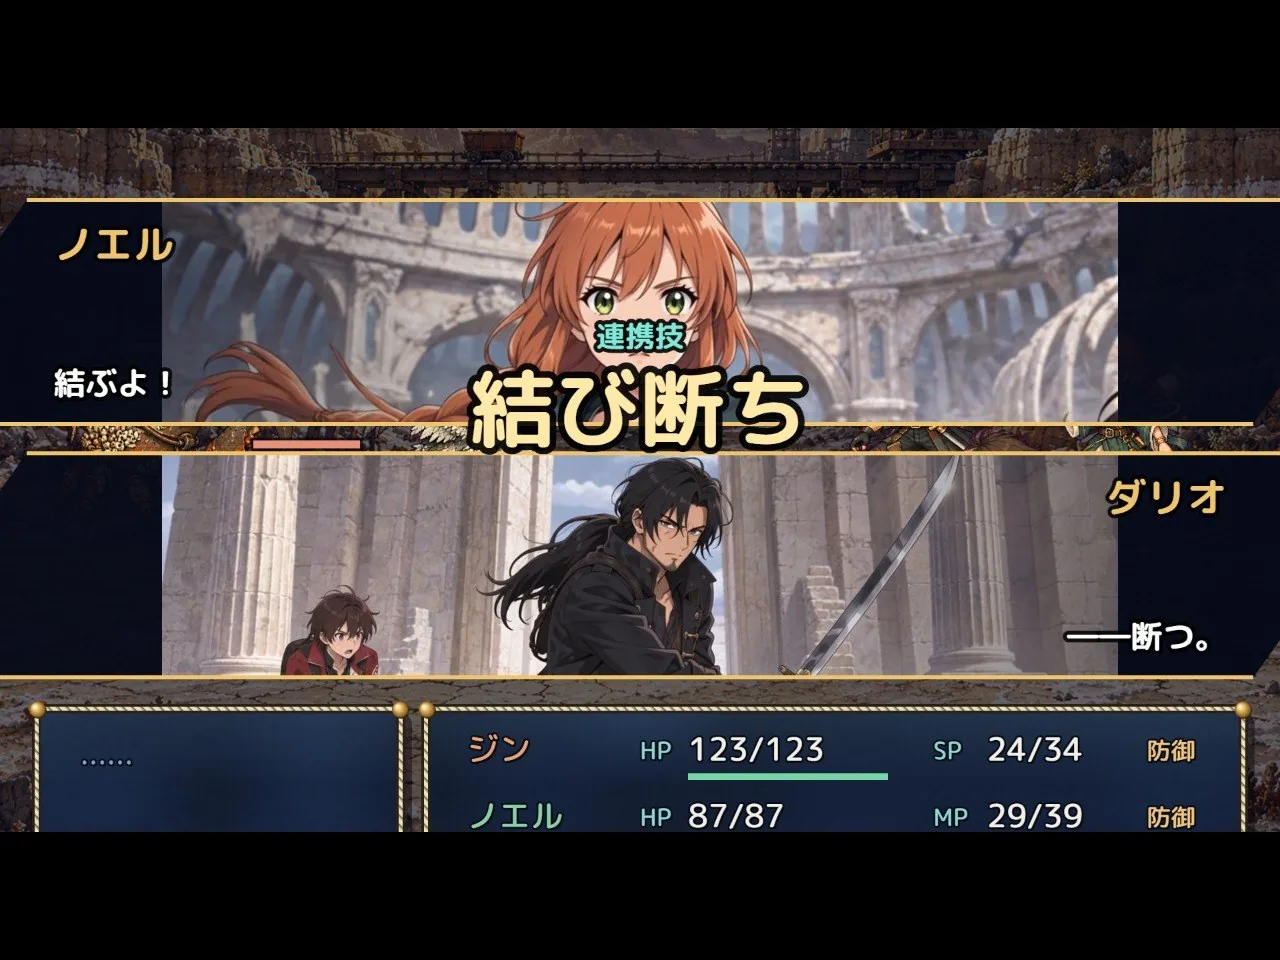
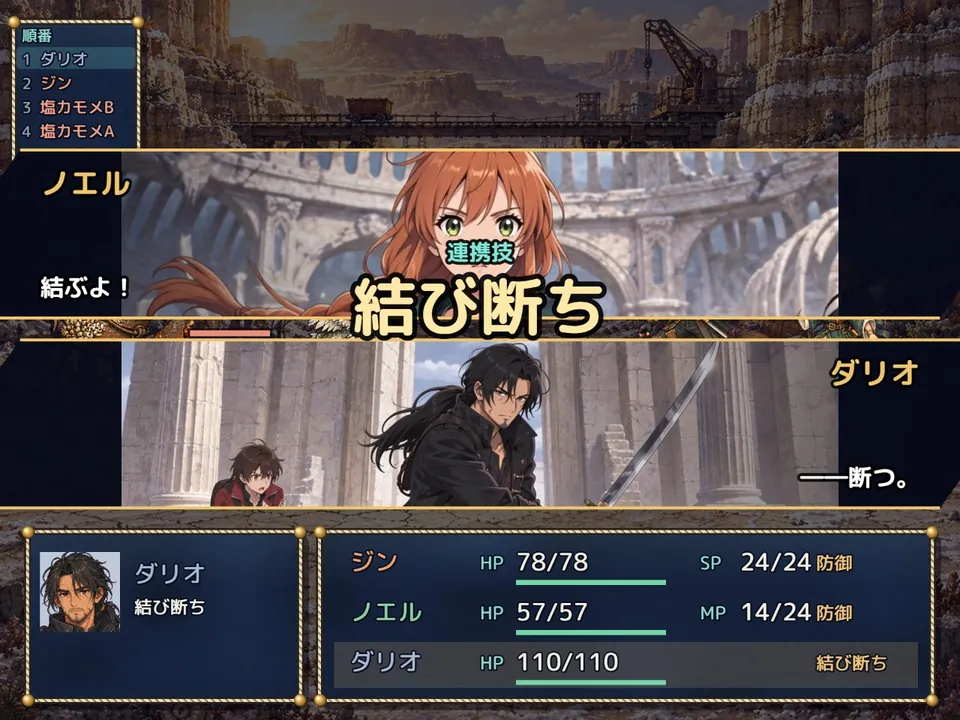
結び断ちのゲーム画面2枚を撮り直し：技の演出の黒い帯で上と仲間の欄が隠れていたので、帯を外して画面全体を写す

diff --git a/index.html b/index.html
@@ -488,11 +488,11 @@ section{padding:96px 0}
           <div class="body"><h3>ターン制のコマンドバトル</h3><p>撃つ・たたかう・技・道具・防御。ジン、ノエル、ダリオの3人に命令を出して戦う、じっくり考えるターン制の戦闘。</p></div>
         </div>
         <div class="feat fx">
-          <img width="1280" height="960" src="assets/img/game_musubi.webp" srcset="assets/img/game_musubi_640.webp 640w, assets/img/game_musubi.webp 1280w" sizes="(max-width:900px) 100vw, 50vw" alt="ノエルとダリオのカットインと技の名前" loading="lazy">
+          <img width="960" height="720" src="assets/img/game_musubi.webp" srcset="assets/img/game_musubi_640.webp 640w, assets/img/game_musubi.webp 960w" sizes="(max-width:900px) 100vw, 50vw" alt="ノエルとダリオのカットインと技の名前" loading="lazy">
           <div class="body"><h3>連携技「結び断ち」</h3><p>ノエルの糸で敵を結び、ダリオが一体ずつ断ち切る。仲間の力をつなげる連携技が、戦況をひっくり返す。</p></div>
         </div>
         <div class="feat fx">
-          <img width="1280" height="960" src="assets/img/game_threads.webp" srcset="assets/img/game_threads_640.webp 640w, assets/img/game_threads.webp 1280w" sizes="(max-width:900px) 100vw, 50vw" alt="金色の糸が敵を結ぶ戦闘画面" loading="lazy">
+          <img width="960" height="720" src="assets/img/game_threads.webp" srcset="assets/img/game_threads_640.webp 640w, assets/img/game_threads.webp 960w" sizes="(max-width:900px) 100vw, 50vw" alt="金色の糸が敵を結ぶ戦闘画面" loading="lazy">
           <div class="body"><h3>四本の糸の魔法</h3><p>厄災には、それぞれ苦手な「糸」がある。火・水・風・土を見きわめ、弱いところを突け。</p></div>
         </div>
         <div class="feat fx">
